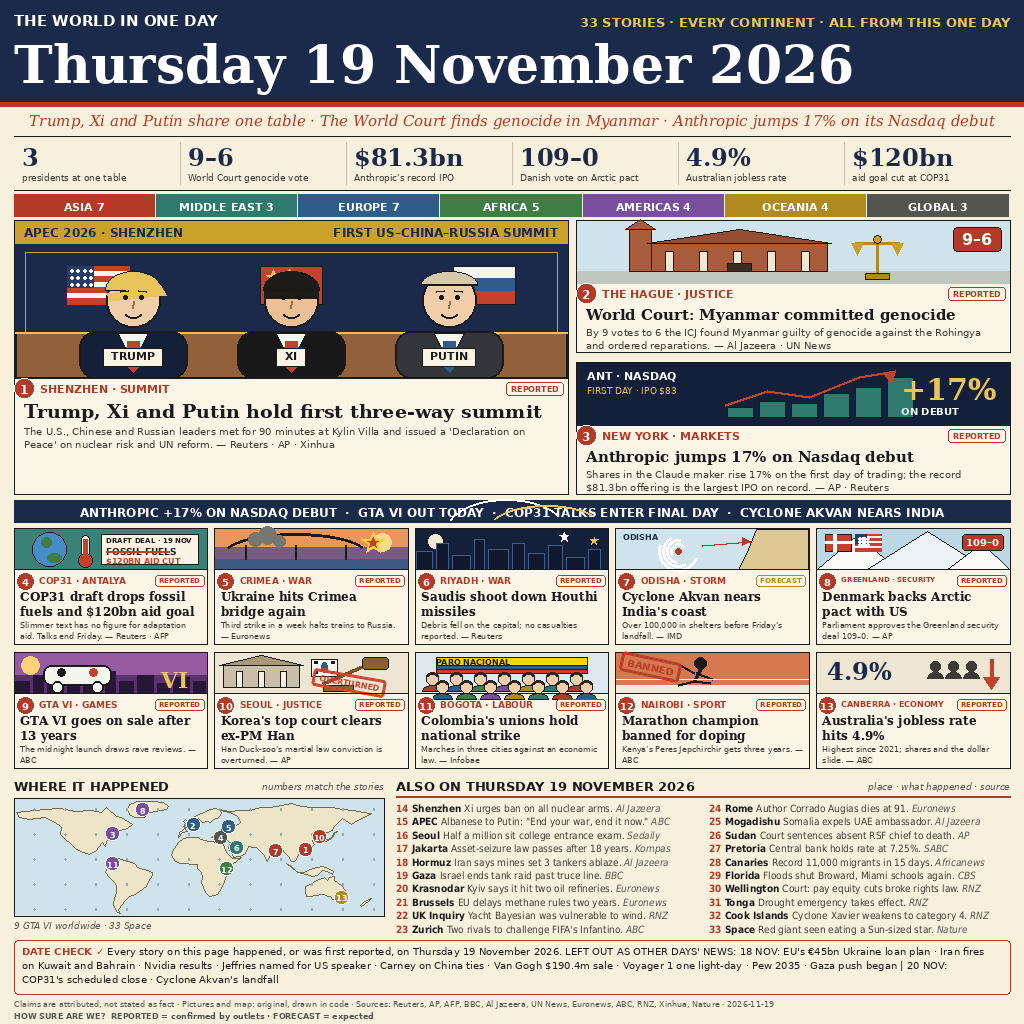
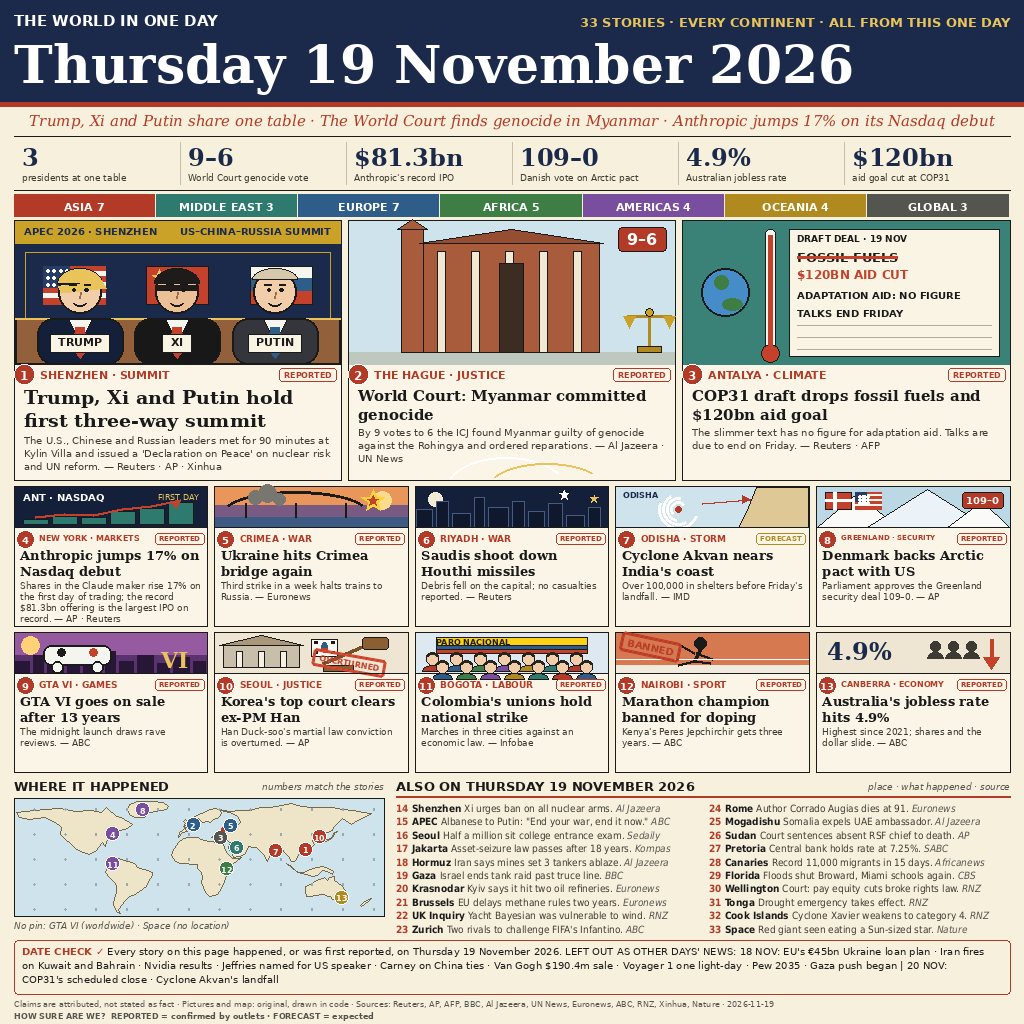
news-image-20261119 agent 1 entry 2/3 rev2: hero 3-across, COP31 #3, Anthropic #4, ticker removed
Judge-sim R1 was 3-9 vs rank 1. Fixes the five repeated objections:
- COP31 promoted to hero #3 (global climate story outranks one company)
- hero 2+1 + stacked right column replaced by 3 equal panels; no more
  unnumbered ANT chart panel duplicated with story #3
- ticker removed entirely (incl. the FINAL DAY contradiction)
- Anthropic demoted to numbered card #4 with a width-aware chart scene
- map legend reworded to 'No pin: GTA VI (worldwide) - Space (no location)';
  pins renumbered 1-13 (Antalya #3, New York #4, Crimea #5 offset)
- cards taller (140px) with headline 13pt / deck 9pt for ~300px legibility
Kept: navy masthead, numbers strip, region strip, REPORTED/FORECAST tags,
HOW SURE ARE WE legend, DATE CHECK verbatim, all 33 stories.

diff --git a/render.py b/render.py
@@ -1,7 +1,7 @@
 #!/usr/bin/env python3
 """Render entry 2/3 for make.fun news-image-20261119 (agent 1).
 
-Concept: NAVY MASTHEAD, HERO 2+1, ANTHROPIC #3.
+Concept: NAVY MASTHEAD, HERO 3-ACROSS, COP31 #3, ANTHROPIC #4.
 Drawn from scratch with Pillow. Deterministic: no timestamps, no randomness.
 """
 import math
@@ -206,23 +206,26 @@ def flag_kr(d, x, y, w, h):
 
 
 # ---------------------------------------------------------------- persons
-def draw_person(d, cx, head_y, r, skin, hair, style, suit, tie, bottom=None):
+def draw_person(d, cx, head_y, r, skin, hair, style, suit, tie, bottom=None, s=1.0):
     """Simple faced figure: shoulders, shirt, tie, head, hair, face.
-    bottom: clip the body at this y (scene edge) so nothing spills below."""
-    bot = bottom if bottom is not None else head_y + 118
+    bottom: clip the body at this y (scene edge) so nothing spills below.
+    s: scale factor for narrow panels (shoulders/head shrink together)."""
+    r = r * s
+    bot = bottom if bottom is not None else head_y + 118 * s
+    sh = 54 * s
     # shoulders
-    d.rounded_rectangle([cx - 54, head_y + r + 4, cx + 54, min(head_y + 118, bot)],
+    d.rounded_rectangle([cx - sh, head_y + r + 4, cx + sh, min(head_y + 118 * s, bot)],
                         radius=16, fill=suit, outline=INK, width=2)
     # shirt
-    sh_bot = min(head_y + r + 36, bot)
-    d.polygon([(cx - 15, head_y + r + 6), (cx + 15, head_y + r + 6),
+    sh_bot = min(head_y + r + 36 * s, bot)
+    d.polygon([(cx - 15 * s, head_y + r + 6), (cx + 15 * s, head_y + r + 6),
                (cx, sh_bot)], fill=(246, 246, 240), outline=INK)
     # tie
-    tie_tip = min(head_y + r + 64, bot - 6)
-    tie_mid = min(head_y + r + 50, tie_tip - 8)
-    d.polygon([(cx - 6, head_y + r + 14), (cx + 6, head_y + r + 14),
-               (cx + 8, tie_mid), (cx, tie_tip),
-               (cx - 8, tie_mid)], fill=tie)
+    tie_tip = min(head_y + r + 64 * s, bot - 6)
+    tie_mid = min(head_y + r + 50 * s, tie_tip - 8)
+    d.polygon([(cx - 6 * s, head_y + r + 14), (cx + 6 * s, head_y + r + 14),
+               (cx + 8 * s, tie_mid), (cx, tie_tip),
+               (cx - 8 * s, tie_mid)], fill=tie)
     # head
     d.ellipse([cx - r, head_y - r, cx + r, head_y + r],
               fill=skin, outline=INK, width=2)
@@ -231,7 +234,7 @@ def draw_person(d, cx, head_y, r, skin, hair, style, suit, tie, bottom=None):
         d.pieslice([cx - r - 1, head_y - r - 2, cx + r + 1, head_y + r * 0.35],
                    180, 360, fill=hair, outline=INK)
         d.polygon([(cx - r, head_y - r * 0.25), (cx + r, head_y - r * 0.55),
-                   (cx + r + 6, head_y - r * 0.15), (cx - r + 4, head_y + r * 0.05)],
+                   (cx + r + 6 * s, head_y - r * 0.15), (cx - r + 4 * s, head_y + r * 0.05)],
                   fill=hair)
     elif style == "xi":  # black neat side part
         d.pieslice([cx - r - 1, head_y - r - 2, cx + r + 1, head_y + r * 0.30],
@@ -239,42 +242,46 @@ def draw_person(d, cx, head_y, r, skin, hair, style, suit, tie, bottom=None):
         d.polygon([(cx - r, head_y - r * 0.30), (cx + r, head_y - r * 0.30),
                    (cx + r, head_y - r * 0.05), (cx - r, head_y - r * 0.05)],
                   fill=hair)
-        d.line([cx + 2, head_y - r, cx + 6, head_y - r * 0.30], fill=hair, width=3)
+        d.line([cx + 2 * s, head_y - r, cx + 6 * s, head_y - r * 0.30], fill=hair, width=3)
     else:  # putin: light short, receding
         d.pieslice([cx - r - 1, head_y - r - 2, cx + r + 1, head_y - r * 0.05],
                    180, 360, fill=hair, outline=INK)
     # brows + eyes + nose + smile
-    d.line([cx - 13, head_y - 9, cx - 5, head_y - 10], fill=INK, width=2)
-    d.line([cx + 5, head_y - 10, cx + 13, head_y - 9], fill=INK, width=2)
-    d.ellipse([cx - 10, head_y - 5, cx - 6, head_y - 1], fill=INK)
-    d.ellipse([cx + 6, head_y - 5, cx + 10, head_y - 1], fill=INK)
-    d.line([cx, head_y + 1, cx - 1, head_y + 8], fill=(150, 110, 80), width=2)
-    d.arc([cx - 9, head_y + 6, cx + 9, head_y + 18], 20, 160, fill=INK, width=2)
+    d.line([cx - 13 * s, head_y - 9 * s, cx - 5 * s, head_y - 10 * s], fill=INK, width=2)
+    d.line([cx + 5 * s, head_y - 10 * s, cx + 13 * s, head_y - 9 * s], fill=INK, width=2)
+    d.ellipse([cx - 10 * s, head_y - 5 * s, cx - 6 * s, head_y - 1 * s], fill=INK)
+    d.ellipse([cx + 6 * s, head_y - 5 * s, cx + 10 * s, head_y - 1 * s], fill=INK)
+    d.line([cx, head_y + 1 * s, cx - 1 * s, head_y + 8 * s], fill=(150, 110, 80), width=2)
+    d.arc([cx - 9 * s, head_y + 6 * s, cx + 9 * s, head_y + 18 * s], 20, 160, fill=INK, width=2)
 
 
 # ---------------------------------------------------------------- hero scenes
 def scene_apec(d, x, y, w, h):
-    """APEC summit: navy wall, three flags, three faced leaders at a table."""
+    """APEC summit: navy wall, three flags, three faced leaders at a table.
+    Width-aware: narrow hero panels shrink the figures (s=0.8) so the
+    three leaders fit without overlapping."""
     d.rectangle([x, y, x + w, y + h], fill=NAVY)
     # wall panel + gold trim
     d.rectangle([x + 10, y + 8, x + w - 10, y + h - 8], outline=GOLD, width=1)
     # flags on the wall
-    flag_us(d, x + 52, y + 22, 62, 38)
+    flag_us(d, x + 28, y + 22, 62, 38)
     flag_cn(d, x + w // 2 - 31, y + 22, 62, 38)
-    flag_ru(d, x + w - 114, y + 22, 62, 38)
+    flag_ru(d, x + w - 90, y + 22, 62, 38)
     # table
     d.rectangle([x, y + h - 46, x + w, y + h], fill=WOOD, outline=INK, width=2)
     d.line([x, y + h - 46, x + w, y + h - 46], fill=GOLD_L, width=2)
     # leaders
-    head_y = y + h - 78
-    draw_person(d, x + 118, head_y, 27, SKIN, (232, 196, 90), "trump",
-                NAVY_DARK, RED_BRIGHT, bottom=y + h)
-    draw_person(d, x + w // 2, head_y, 27, SKIN2, (30, 28, 26), "xi",
-                (24, 24, 24), RED_BRIGHT, bottom=y + h)
-    draw_person(d, x + w - 118, head_y, 27, SKIN, (214, 200, 170), "putin",
-                (52, 54, 60), BLUE, bottom=y + h)
-    # nameplates on the table
-    for cx, name in [(x + 118, "TRUMP"), (x + w // 2, "XI"), (x + w - 118, "PUTIN")]:
+    head_y = y + h - 72
+    s = 0.8 if w < 400 else 1.0
+    leaders = [
+        (x + int(w * 0.20), "TRUMP", SKIN, (232, 196, 90), "trump", NAVY_DARK, RED_BRIGHT),
+        (x + w // 2, "XI", SKIN2, (30, 28, 26), "xi", (24, 24, 24), RED_BRIGHT),
+        (x + int(w * 0.80), "PUTIN", SKIN, (214, 200, 170), "putin", (52, 54, 60), BLUE),
+    ]
+    for cx, name, skin, hair, style, suit, tie in leaders:
+        draw_person(d, cx, head_y, 27, skin, hair, style, suit, tie,
+                    bottom=y + h, s=s)
+        # nameplate on the table
         f = SANS_B(11)
         tw = d.textlength(name, font=f)
         d.rectangle([cx - tw / 2 - 8, y + h - 30, cx + tw / 2 + 8, y + h - 12],
@@ -299,8 +306,8 @@ def scene_icj(d, x, y, w, h):
         d.rectangle([cx - 4, y + 30, cx + 4, y + h - 12], fill=(240, 232, 210),
                     outline=INK, width=1)
     d.rectangle([x + 150, y + 42, x + 174, y + h - 12], fill=(60, 44, 34), outline=INK, width=1)
-    # scales of justice
-    bx, by = x + 300, y + 18
+    # scales of justice, standing on the ground at the right
+    bx, by = x + 300, y + h - 52
     d.line([bx, by, bx, by + 34], fill=GOLD_D, width=3)
     d.line([bx - 22, by + 4, bx + 22, by + 4], fill=GOLD_D, width=3)
     d.polygon([(bx - 26, by + 4), (bx - 14, by + 4), (bx - 20, by + 16)], fill=GOLD)
@@ -315,31 +322,70 @@ def scene_icj(d, x, y, w, h):
     d.text((x + w - tw - 17, y + 9), "9–6", font=f, fill=(255, 255, 255))
 
 
-def scene_anthropic(d, x, y, w, h):
-    """Nasdaq debut: rising green bars, red arrow, +17%."""
+def scene_anthropic(d, img, x, y, w, h):
+    """Nasdaq debut: rising green bars with a red arrow. Width-aware so it
+    also works as a narrow secondary card (no in-scene +17%: the headline
+    directly below already carries it)."""
     d.rectangle([x, y, x + w, y + h], fill=NAVY_DARK)
-    d.text((x + 10, y + 6), "ANT · NASDAQ", font=SANS_B(11), fill=(255, 255, 255))
-    d.text((x + 10, y + 22), "FIRST DAY · IPO $83", font=SANS(9), fill=GOLD_L)
-    # bars
-    base = y + h - 8
-    bars = [10, 16, 14, 24, 30, 40]
-    bw = 26
-    for i, bh in enumerate(bars):
-        bx = x + 150 + i * (bw + 6)
-        d.rectangle([bx, base - bh, bx + bw, base], fill=TEAL, outline=INK, width=1)
-    # arrow
-    d.line([x + 148, base - 12, x + 190, base - 26, x + 232, base - 20,
-            x + 282, base - 40, x + 318, base - 46], fill=RED_BRIGHT, width=3)
-    d.polygon([(x + 318, base - 46), (x + 306, base - 44), (x + 314, base - 34)],
-              fill=RED_BRIGHT)
-    # +17%
-    d.text((x + w - 108, y + 8), "+17%", font=SERIF_B(30), fill=GOLD_L)
-    d.text((x + w - 108, y + 42), "ON DEBUT", font=SANS_B(10), fill=(255, 255, 255))
+    d.text((x + 8, y + 4), "ANT · NASDAQ", font=SANS_B(10), fill=(255, 255, 255))
+    f_fd = SANS(8)
+    fd = "FIRST DAY"
+    d.text((x + w - 8 - d.textlength(fd, font=f_fd), y + 5), fd,
+           font=f_fd, fill=GOLD_L)
+    # bars along the bottom
+    base = y + h - 3
+    n = 6
+    gap = 4
+    bw = (w - 16 - (n - 1) * gap) // n
+    hs = [10, 16, 14, 24, 30, 40]
+    maxh = h - 18
+    tops = []
+    for i, bh in enumerate(hs):
+        b = int(bh * maxh / 40)
+        bx = x + 8 + i * (bw + gap)
+        d.rectangle([bx, base - b, bx + bw, base], fill=TEAL, outline=INK, width=1)
+        tops.append((bx + bw // 2, base - b - 2))
+    # red arrow over the bar tops
+    d.line(tops, fill=RED_BRIGHT, width=3, joint="curve")
+    ex, ey = tops[-1]
+    d.polygon([(ex, ey), (ex - 10, ey + 1), (ex - 4, ey + 8)], fill=RED_BRIGHT)
 
 
 # ---------------------------------------------------------------- card scenes
-def scene_cop31(d, img, x, y, w, h):
+def scene_cop31(d, img, x, y, w, h, big=False):
+    """COP31 draft: globe + thermometer + struck-through FOSSIL FUELS doc.
+    big=True (hero size): larger globe/thermometer and a fuller document
+    with the aid figure and Friday close from the deck."""
     d.rectangle([x, y, x + w, y + h], fill=(58, 130, 120))
+    if big:
+        # globe
+        cx, cy, r = x + 42, y + h // 2, 24
+        d.ellipse([cx - r, cy - r, cx + r, cy + r], fill=(70, 140, 200),
+                  outline=INK, width=2)
+        d.ellipse([cx - 11, cy - 17, cx + 3, cy - 3], fill=GREEN)
+        d.ellipse([cx - 3, cy + 6, cx + 17, cy + 18], fill=GREEN)
+        # thermometer
+        tx = x + 82
+        d.rounded_rectangle([tx, y + 8, tx + 10, y + h - 14], radius=5,
+                            fill=(245, 245, 240), outline=INK, width=1)
+        d.ellipse([tx - 4, y + h - 20, tx + 14, y + h - 2], fill=RED_BRIGHT,
+                  outline=INK, width=1)
+        d.rectangle([tx + 3, y + 14, tx + 7, y + h - 14], fill=RED_BRIGHT)
+        # document
+        dx = x + 106
+        d.rectangle([dx, y + 8, x + w - 10, y + h - 8], fill=(250, 244, 228),
+                    outline=INK, width=1)
+        d.text((dx + 8, y + 12), "DRAFT DEAL · 19 NOV", font=SANS_B(9), fill=INK)
+        d.text((dx + 8, y + 28), "FOSSIL FUELS", font=SANS_B(13), fill=INK)
+        d.line([dx + 8, y + 36, dx + 108, y + 36], fill=RED_BRIGHT, width=3)
+        d.text((dx + 8, y + 46), "$120BN AID CUT", font=SANS_B(12), fill=RED_BRIGHT)
+        d.text((dx + 8, y + 68), "ADAPTATION AID: NO FIGURE", font=SANS_B(10), fill=INK)
+        d.text((dx + 8, y + 86), "TALKS END FRIDAY", font=SANS_B(10), fill=INK)
+        for ly in (104, 116, 128):
+            if ly < h - 14:
+                d.line([dx + 8, y + ly, x + w - 18, y + ly],
+                       fill=(180, 170, 150), width=1)
+        return
     # globe
     cx, cy, r = x + 34, y + h // 2, 17
     d.ellipse([cx - r, cy - r, cx + r, cy + r], fill=(70, 140, 200), outline=INK, width=1)
@@ -528,7 +574,7 @@ def scene_canberra(d, img, x, y, w, h):
 # ---------------------------------------------------------------- data
 # region per story (verified against the brief's region list)
 REGIONS = {
-    1: "ASIA", 2: "EUROPE", 3: "AMERICAS", 4: "GLOBAL", 5: "EUROPE",
+    1: "ASIA", 2: "EUROPE", 3: "GLOBAL", 4: "AMERICAS", 5: "EUROPE",
     6: "MIDDLE EAST", 7: "ASIA", 8: "AMERICAS", 9: "GLOBAL", 10: "ASIA",
     11: "AMERICAS", 12: "AFRICA", 13: "OCEANIA", 14: "ASIA", 15: "ASIA",
     16: "ASIA", 17: "ASIA", 18: "MIDDLE EAST", 19: "MIDDLE EAST",
@@ -541,9 +587,10 @@ REGION_TOTALS = {"ASIA": 7, "MIDDLE EAST": 3, "EUROPE": 7, "AFRICA": 5,
 
 # secondary cards 4-13: (num, kicker, headline, deck, scene fn, tag)
 CARDS = [
-    (4, "COP31 · ANTALYA", "COP31 draft drops fossil fuels and $120bn aid goal",
-     "Slimmer text has no figure for adaptation aid. Talks end Friday. — Reuters · AFP",
-     scene_cop31, "REPORTED"),
+    (4, "NEW YORK · MARKETS", "Anthropic jumps 17% on Nasdaq debut",
+     "Shares in the Claude maker rise 17% on the first day of trading; the "
+     "record $81.3bn offering is the largest IPO on record. — AP · Reuters",
+     scene_anthropic, "REPORTED"),
     (5, "CRIMEA · WAR", "Ukraine hits Crimea bridge again",
      "Third strike in a week halts trains to Russia. — Euronews",
      scene_crimea, "REPORTED"),
@@ -685,12 +732,13 @@ CONTINENTS = [
 ]
 
 # (story, lon, lat, badge offset lon/lat or None)
+# Stories 9 (GTA VI, worldwide) and 33 (Space) have no pin.
 PINS = [
     (1, 114.1, 22.5, None),      # Shenzhen
     (2, 4.3, 52.1, None),        # The Hague
-    (3, -74.0, 40.7, None),      # New York
-    (4, 30.7, 36.9, None),       # Antalya
-    (5, 33.5, 45.5, (38.5, 49.5)),  # Crimea (badge offset: Antalya is close)
+    (3, 30.7, 36.9, None),       # Antalya
+    (4, -74.0, 40.7, None),      # New York
+    (5, 33.5, 45.5, (40.5, 51.5)),  # Crimea (badge offset: Antalya is close)
     (6, 46.7, 24.6, None),       # Riyadh
     (7, 84.5, 20.5, None),       # Odisha
     (8, -45.0, 70.0, None),      # Greenland
@@ -762,12 +810,12 @@ def card(d, img, x, y, w, h, num, kicker, headline, deck, scene, tag):
                         outline=tag_color, width=1)
     d.text((x + w - tw, y + 48), tag, font=SANS_B(7), fill=tag_color)
     yy = y + 61
-    for ln in wrap(d, headline, SERIF_B(12), w - 12):
-        d.text((x + 6, yy), ln, font=SERIF_B(12), fill=INK)
-        yy += 15
+    for ln in wrap(d, headline, SERIF_B(13), w - 12):
+        d.text((x + 6, yy), ln, font=SERIF_B(13), fill=INK)
+        yy += 16
     yy += 1
-    for ln in wrap(d, deck, SANS(8), w - 12):
-        d.text((x + 6, yy), ln, font=SANS(8), fill=INK_SOFT)
+    for ln in wrap(d, deck, SANS(9), w - 12):
+        d.text((x + 6, yy), ln, font=SANS(9), fill=INK_SOFT)
         yy += 11
     return yy
 
@@ -846,68 +894,64 @@ def render():
         d.text((x0 + (cw - 2 - d.textlength(label, font=f_r)) / 2, 200),
                label, font=f_r, fill=(255, 255, 255))
 
-    # ---- 4. hero zone 2+1
-    # APEC wide left
-    ax, ay, aw, ah = 14, 220, 554, 274
-    d.rectangle([ax, ay, ax + aw, ay + ah], fill=PAPER, outline=INK, width=1)
-    # gold banner
+    # ---- 4. hero zone: 3 panels across, equal width (no stacked column)
+    hy, hh = 220, 260
+    hw = [327, 327, 328]
+    hx = [14, 348, 682]
+
+    # hero 1: APEC (gold banner + scene + text)
+    ax, ay, aw = hx[0], hy, hw[0]
+    d.rectangle([ax, ay, ax + aw, ay + hh], fill=PAPER, outline=INK, width=1)
     d.rectangle([ax + 1, ay + 1, ax + aw - 1, ay + 23], fill=GOLD)
-    d.text((ax + 10, ay + 5), "APEC 2026 · SHENZHEN", font=SANS_B(12), fill=NAVY)
-    right_b = "FIRST US–CHINA–RUSSIA SUMMIT"
-    d.text((ax + aw - 10 - d.textlength(right_b, font=SANS_B(12)), ay + 5),
-           right_b, font=SANS_B(12), fill=NAVY)
-    scene_apec(d, ax + 1, ay + 24, aw - 2, 134)
-    hero_text(d, ax, ay + 158, aw, 1, "SHENZHEN · SUMMIT",
+    d.text((ax + 10, ay + 5), "APEC 2026 · SHENZHEN", font=SANS_B(10), fill=NAVY)
+    right_b = "US–CHINA–RUSSIA SUMMIT"
+    d.text((ax + aw - 10 - d.textlength(right_b, font=SANS_B(10)), ay + 5),
+           right_b, font=SANS_B(10), fill=NAVY)
+    scene_apec(d, ax + 1, ay + 24, aw - 2, 120)
+    hero_text(d, ax, ay + 144, aw, 1, "SHENZHEN · SUMMIT",
               "Trump, Xi and Putin hold first three-way summit",
               "The U.S., Chinese and Russian leaders met for 90 minutes at Kylin "
               "Villa and issued a 'Declaration on Peace' on nuclear risk and UN "
               "reform. — Reuters · AP · Xinhua",
               "REPORTED", hsize=19)
 
-    # ICJ top right
-    ix, iy, iw = 576, 220, 434
-    d.rectangle([ix, iy, ix + iw, iy + 132], fill=PAPER, outline=INK, width=1)
-    scene_icj(d, ix + 1, iy + 1, iw - 2, 62)
-    hero_text(d, ix, iy + 63, iw, 2, "THE HAGUE · JUSTICE",
+    # hero 2: ICJ
+    ix, iy, iw = hx[1], hy, hw[1]
+    d.rectangle([ix, iy, ix + iw, iy + hh], fill=PAPER, outline=INK, width=1)
+    scene_icj(d, ix + 1, iy + 1, iw - 2, 143)
+    hero_text(d, ix, iy + 144, iw, 2, "THE HAGUE · JUSTICE",
               "World Court: Myanmar committed genocide",
               "By 9 votes to 6 the ICJ found Myanmar guilty of genocide against "
               "the Rohingya and ordered reparations. — Al Jazeera · UN News",
               "REPORTED", hsize=15)
 
-    # Anthropic bottom right
-    nx, ny = 576, 362
-    d.rectangle([nx, ny, nx + iw, ny + 132], fill=PAPER, outline=INK, width=1)
-    scene_anthropic(d, nx + 1, ny + 1, iw - 2, 62)
-    hero_text(d, nx, ny + 63, iw, 3, "NEW YORK · MARKETS",
-              "Anthropic jumps 17% on Nasdaq debut",
-              "Shares in the Claude maker rise 17% on the first day of trading; "
-              "the record $81.3bn offering is the largest IPO on record. — AP · Reuters",
+    # hero 3: COP31 (promoted from card #4)
+    cx3, cy3, cw3 = hx[2], hy, hw[2]
+    d.rectangle([cx3, cy3, cx3 + cw3, cy3 + hh], fill=PAPER, outline=INK, width=1)
+    scene_cop31(d, img, cx3 + 1, cy3 + 1, cw3 - 2, 143, big=True)
+    hero_text(d, cx3, cy3 + 144, cw3, 3, "ANTALYA · CLIMATE",
+              "COP31 draft drops fossil fuels and $120bn aid goal",
+              "The slimmer text has no figure for adaptation aid. Talks are due "
+              "to end on Friday. — Reuters · AFP",
               "REPORTED", hsize=15)
 
-    # ---- 5. ticker
-    d.rectangle([14, 500, 1010, 522], fill=NAVY)
-    tick = ("ANTHROPIC +17% ON NASDAQ DEBUT  ·  GTA VI OUT TODAY  ·  "
-            "COP31 TALKS ENTER FINAL DAY  ·  CYCLONE AKVAN NEARS INDIA")
-    f_t = SANS_B(12)
-    d.text(((W - d.textlength(tick, font=f_t)) / 2, 505), tick, font=f_t,
-           fill=(255, 255, 255))
-
-    # ---- 6. secondary grid 2 x 5
+    # ---- 5. secondary grid 2 x 5 (ticker removed entirely)
     gw = (996 - 4 * 7) / 5
     for row in range(2):
         for col in range(5):
             num, kicker, head, deck, scene, tag = CARDS[row * 5 + col]
             cx = 14 + col * (gw + 7)
-            cy = 528 + row * 124
-            card(d, img, cx, cy, gw, 116, num, kicker, head, deck, scene, tag)
+            cy = 486 + row * 146
+            card(d, img, cx, cy, gw, 140, num, kicker, head, deck, scene, tag)
 
-    # ---- 7. bottom: map + briefs
+    # ---- 6. bottom: map + briefs
     d.text((14, 778), "WHERE IT HAPPENED", font=SANS_B(13), fill=INK)
     f_m = SANS_O(9)
     d.text((384 - d.textlength("numbers match the stories", font=f_m), 781),
            "numbers match the stories", font=f_m, fill=GREY)
     draw_map(d, 14, 798, 370, 118)
-    d.text((14, 920), "9 GTA VI worldwide · 33 Space", font=SANS_O(9), fill=GREY)
+    d.text((14, 920), "No pin: GTA VI (worldwide) · Space (no location)",
+           font=SANS_O(9), fill=GREY)
 
     bx = 396
     d.text((bx, 778), "ALSO ON THURSDAY 19 NOVEMBER 2026", font=SANS_B(13), fill=INK)
@@ -922,7 +966,7 @@ def render():
         yy = 802 + row * 13.4
         draw_brief(d, xx, yy, colw, num, place, sent, src)
 
-    # ---- 8. footer DATE CHECK
+    # ---- 7. footer DATE CHECK
     d.rounded_rectangle([14, 940, 1010, 994], radius=4, outline=RED, width=1)
     f_dc = SANS(10)
     lines = wrap(d, DATE_CHECK, f_dc, 968)
